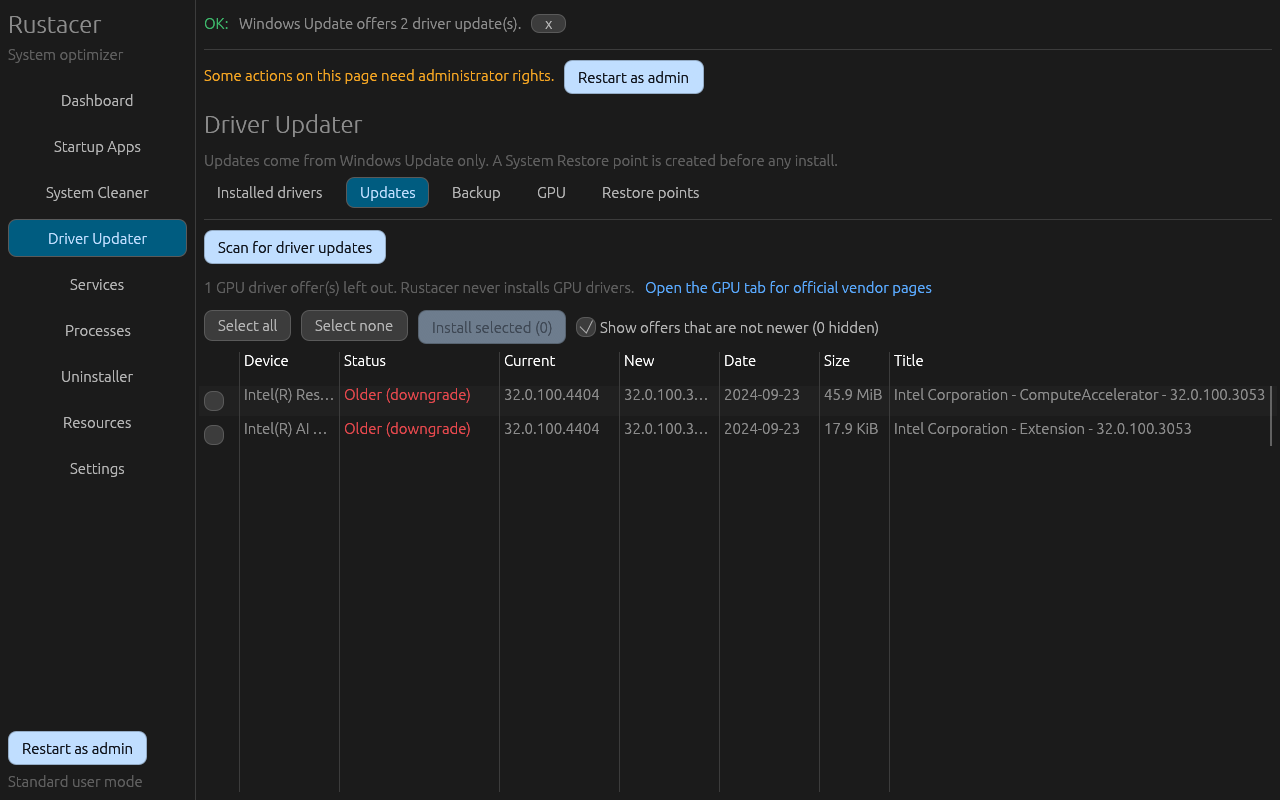
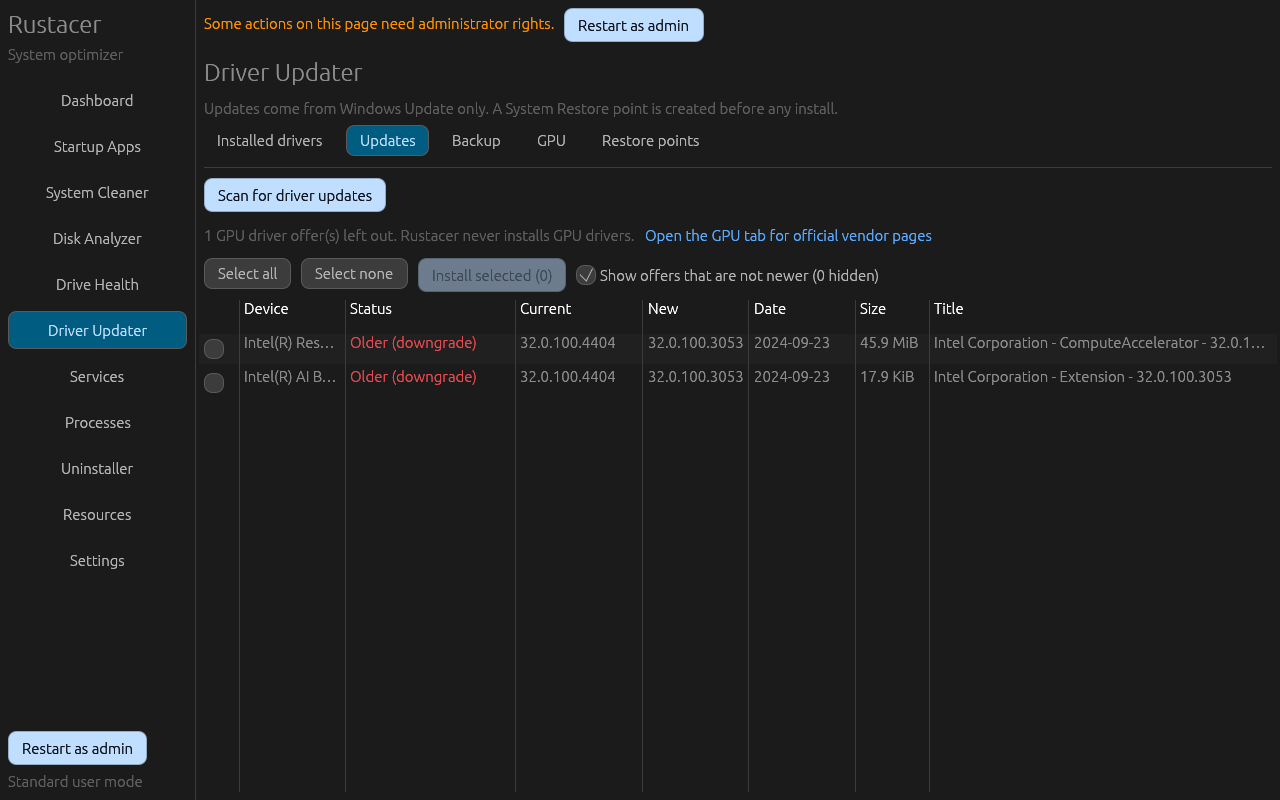
docs: regenerate README screenshots with the new pages
Adds Disk Analyzer, Drive Health and Network connections images. The
tour scans System32, shows only svchost endpoints and clears notices, so
no user name, personal files, installed apps or browsing appear.

diff --git a/rustacer/src/shots.rs b/rustacer/src/shots.rs
@@ -17,8 +17,10 @@ enum Prep {
     None,
     ScanCleaner,
     ScanDrivers,
-    /// Scan the folder holding this executable (read-only, nothing personal in it).
+    /// Scan the folder holding this executable, or System32 for the README images (read-only).
     ScanDisk,
+    /// Show only Windows service host sockets on the Network tab (no personal apps).
+    NetListen,
 }
 
 #[derive(Clone, Copy, Debug)]
@@ -95,6 +97,19 @@ fn readme_tour() -> Vec<Step> {
             Prep::ScanDisk,
             Theme::Dark,
         ),
+        step("health", Page::Health, None, Prep::None, Theme::Dark),
+        {
+            // svchost only: no personal apps or browsing in the image.
+            let mut s = step(
+                "network",
+                Page::Processes,
+                None,
+                Prep::NetListen,
+                Theme::Dark,
+            );
+            s.sub = Sub::Procs(ProcTab::Network);
+            s
+        },
         step("services", Page::Services, None, Prep::None, Theme::Dark),
         step("settings", Page::Settings, None, Prep::None, Theme::Dark),
         step(
@@ -303,6 +318,7 @@ fn prep_done(app: &App, prep: Prep) -> bool {
         Prep::ScanCleaner => !app.cleaner.scanning,
         Prep::ScanDrivers => app.drivers.scanned_once && !app.drivers.scanning,
         Prep::ScanDisk => app.disk.report.is_some() && !app.disk.scanning,
+        Prep::NetListen => app.procs.net.loaded,
     }
 }
 
@@ -341,6 +357,7 @@ pub fn tick(app: &mut App, ctx: &Context) {
             apply_window(ctx, w);
         }
         app.cfg.theme = st.theme; // session only, never saved
+        app.notice = None; // a notice from an earlier step would clutter the image
         app.cfg.ui_scale = st.scale;
         app.goto(st.page);
         if let Some(t) = st.tab {
@@ -351,14 +368,21 @@ pub fn tick(app: &mut App, ctx: &Context) {
             Prep::None => {}
             Prep::ScanCleaner => app.scan_cleaner(),
             Prep::ScanDisk => {
-                if let Some(dir) = std::env::current_exe()
-                    .ok()
-                    .and_then(|p| p.parent().map(|d| d.to_path_buf()))
-                {
+                // README images scan a system folder, so no user name or personal file shows.
+                let dir = if app.redact {
+                    std::env::var_os("SystemRoot")
+                        .map(|w| std::path::PathBuf::from(w).join("System32"))
+                } else {
+                    std::env::current_exe()
+                        .ok()
+                        .and_then(|p| p.parent().map(|d| d.to_path_buf()))
+                };
+                if let Some(dir) = dir {
                     app.disk.root = dir.to_string_lossy().into_owned();
                     app.scan_disk();
                 }
             }
+            Prep::NetListen => app.procs.net.filter = "svchost".into(),
             Prep::ScanDrivers => {
                 app.drivers.show_all_updates = true;
                 app.scan_driver_updates();
@@ -418,6 +442,7 @@ pub fn tick(app: &mut App, ctx: &Context) {
     let waited = t0.elapsed();
     let ready = waited >= st.dwell && prep_done(app, st.prep);
     if ready || waited >= Duration::from_secs(150) {
+        app.notice = None;
         ctx.send_viewport_cmd(egui::ViewportCommand::Screenshot(egui::UserData::default()));
         s.requested = true;
     }

diff --git a/README.md b/README.md
@@ -12,8 +12,12 @@ It ships as a single portable `.exe` built with [egui/eframe](https://github.com
 | ![Installed drivers](docs/screenshots/drivers-installed.png) | ![GPU](docs/screenshots/drivers-gpu.png) |
 | **Services** | **Settings (Nord theme)** |
 | ![Services](docs/screenshots/services.png) | ![Settings](docs/screenshots/settings-nord.png) |
+| **Disk Analyzer** | **Drive Health** |
+| ![Disk Analyzer](docs/screenshots/disk.png) | ![Drive Health](docs/screenshots/health.png) |
+| **Network connections** | |
+| ![Network connections](docs/screenshots/network.png) | |
 
-The screenshots are generated by the app itself with `rustacer.exe --screenshots docs/screenshots`, with the PC name redacted.
+The screenshots are generated by the app itself with `rustacer.exe --screenshots docs/screenshots`. The PC name is redacted, the Disk Analyzer image scans `C:\Windows\System32`, and the network image shows only Windows service hosts, so no user name, personal files or browsing appear. Drive Health is shown without admin rights, so its counters read n/a.
 
 ## Inspired by Stacer
 
